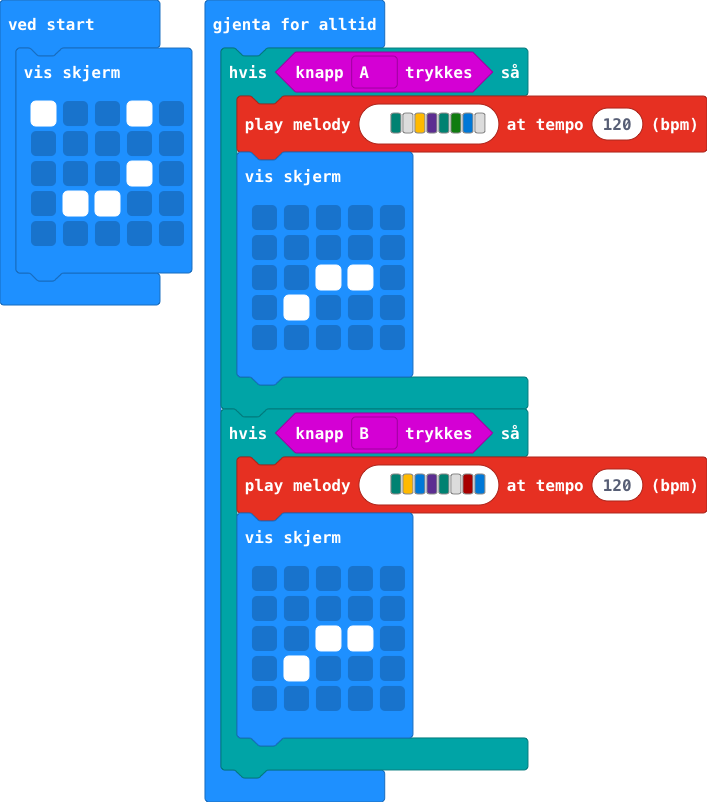
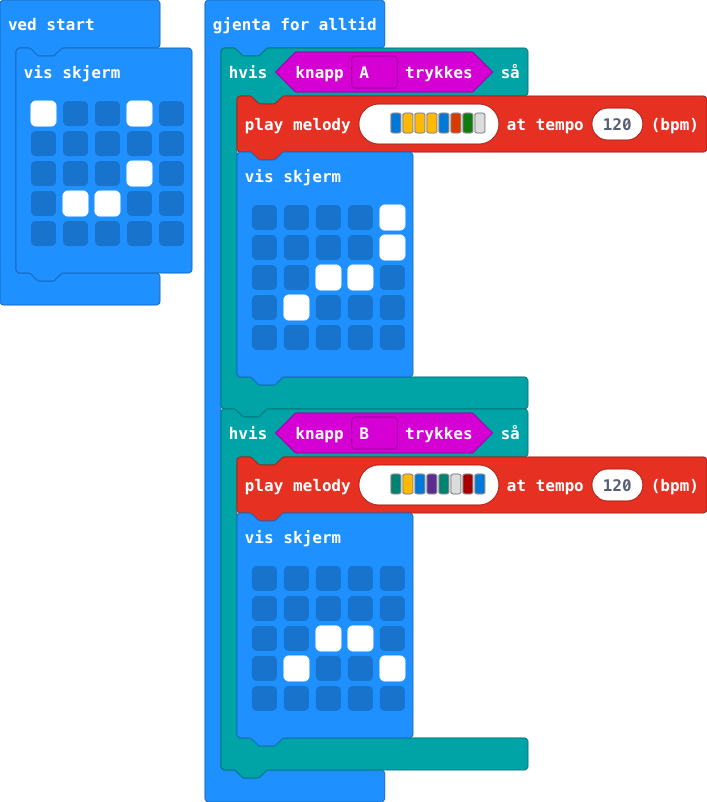
Oppdater main.blocks, main.ts

Changed region(s): [[0.529, 0.1247, 0.6846, 0.187], [0.529, 0.2494, 0.5912, 0.3429], [0.529, 0.8105, 0.5912, 0.8728]]

diff --git a/main.ts b/main.ts
@@ -7,10 +7,10 @@ basic.showLeds(`
     `)
 basic.forever(function () {
     if (input.buttonIsPressed(Button.A)) {
-        music.playMelody("F - A D F G E - ", 120)
+        music.playMelody("E A A A E B G - ", 120)
         basic.showLeds(`
-            . . . . .
-            . . . . .
+            . . . . #
+            . . . . #
             . . # # .
             . # . . .
             . . . . .
@@ -22,7 +22,7 @@ basic.forever(function () {
             . . . . .
             . . . . .
             . . # # .
-            . # . . .
+            . # . . #
             . . . . .
             `)
     }
